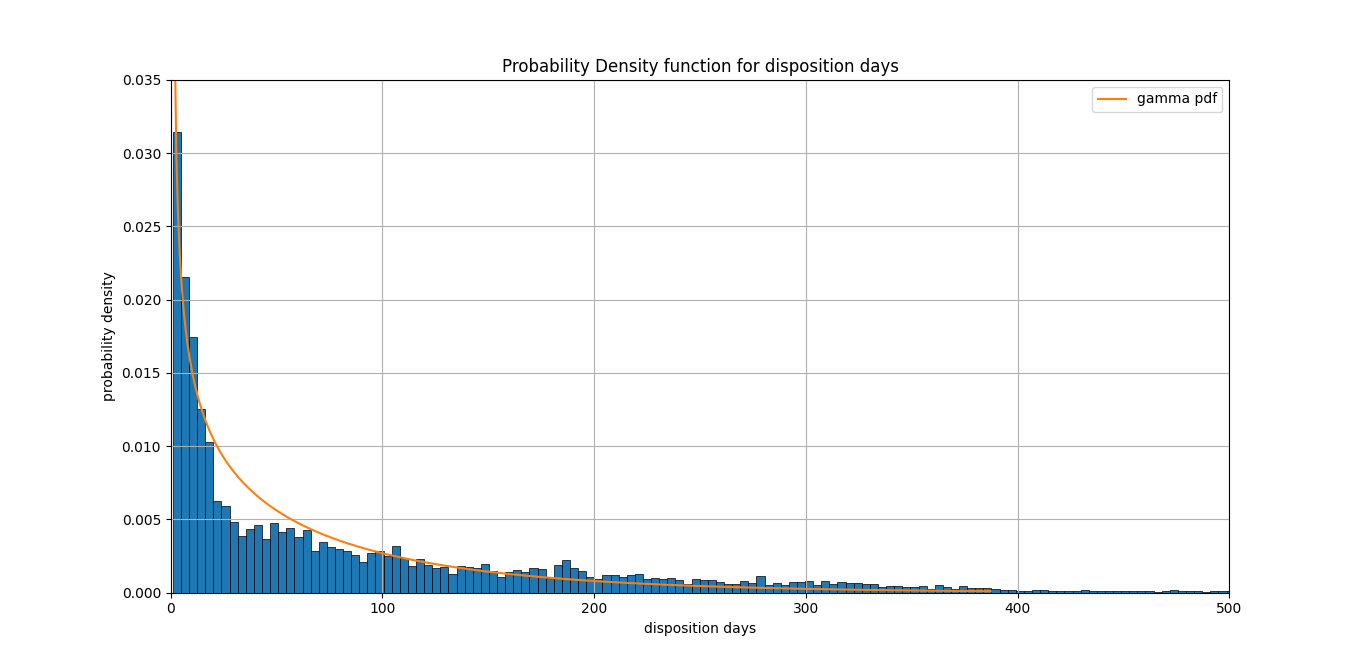
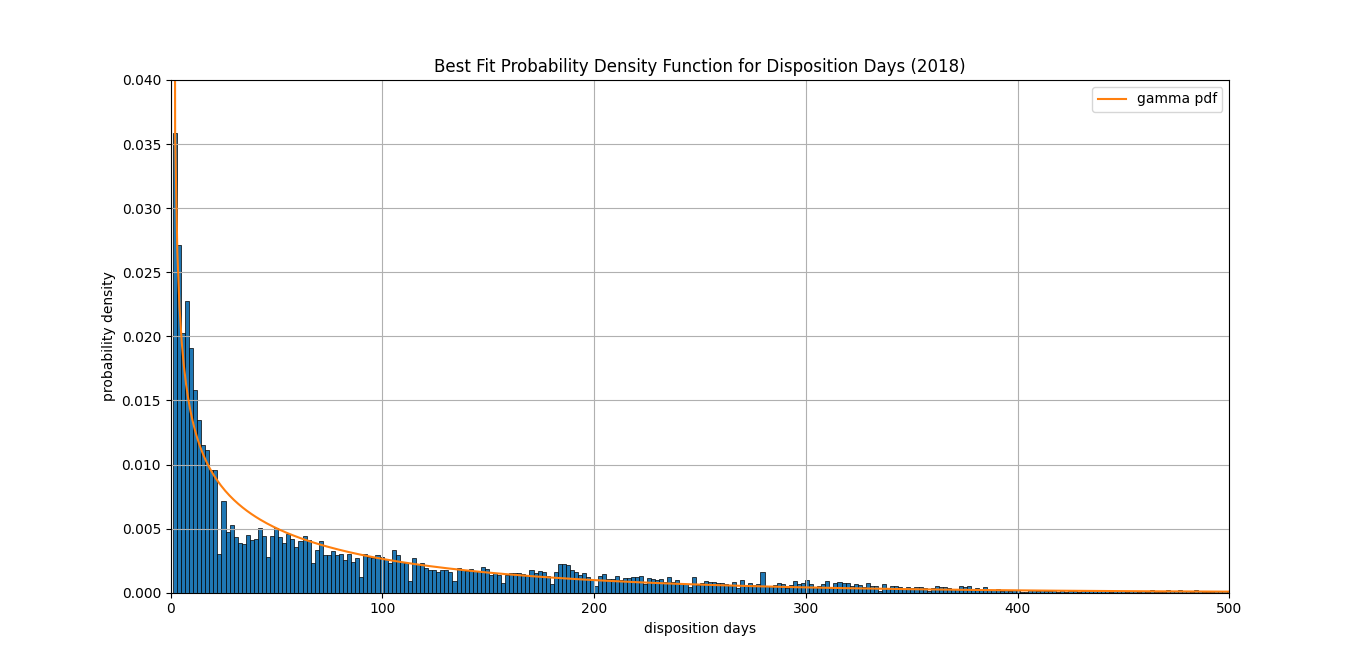
changed somethings in best-fit.py and gamma.py

Changed region(s): [[0.0922, 0.2102, 0.8917, 0.9009], [0.3075, 0.0901, 0.7072, 0.1201]]

diff --git a/data/pdf/gamma.py b/data/pdf/gamma.py
@@ -1,29 +1,36 @@
 import numpy as np
 from scipy.stats import gamma
+from scipy.stats import expon
+from scipy.stats import invgamma
 import matplotlib.pyplot as plt
 import pandas as pd
 
 fig, ax = plt.subplots()
 
-df = pd.read_csv("small_data.csv")
+filepath = "small_data.csv"
+df = pd.read_csv(filepath)
+print(f"loaded {filepath}")
 data = list(df["disposition_days"])
-ax.hist(data, bins=250, density=True, ec='black', lw=0.5)
 
-a = 0.6413976857345591
+ax.hist(data, bins=500, density=True, ec='black', lw=0.5)
+print("histogram prepared. Finding best fit curve now ...")
+
+a = 0.5731919169613173
 loc = 0.999999999999999999
-scale = 103.82470434943471
+scale = 145.42211799619184
 
 x = np.linspace(gamma.ppf(0.01, a, loc, scale), gamma.ppf(0.99, a, loc, scale), 500)
-print(x)
 ax.plot(x, gamma.pdf(x, a, loc, scale), label='gamma pdf')
+
+print("Best fit curve prepared")
 ax.legend()
 
 ax.set_xlim(0, 500)
-ax.set_ylim(0, 0.035)
+ax.set_ylim(0, 0.04)
 
 ax.set_xlabel("disposition days")
 ax.set_ylabel("probability density")
-ax.set_title("Probability Density function for disposition days")
+ax.set_title("Best Fit Probability Density Function for Disposition Days (2018)")
 ax.grid(True)
 
 plt.show()

diff --git a/data/pdf/best-fit.py b/data/pdf/best-fit.py
@@ -9,17 +9,19 @@ import seaborn as sns
 from fitter import Fitter, get_common_distributions, get_distributions
 
 dataset = pd.read_csv("small_data.csv")
+print("loaded data.csv")
 
 sns.set_style('white')
 sns.set_context('paper', font_scale=2)
 
-sns.displot(data=dataset, x="disposition_days", kind="hist", bins=1000, aspect=1.5)
+sns.displot(data=dataset, x="disposition_days", kind="hist", bins=250, aspect=1.5)
 
 disposition_days = dataset["disposition_days"].values
 
 good_distributations = ['betaprime', 'invgamma'] + get_common_distributions()
 
-f = Fitter(disposition_days, xmin=0, xmax=500, distributions=good_distributations)
+f = Fitter(disposition_days, timeout=120,
+           distributions=get_common_distributions())
 
 #['invgamma', 'betaprime', 'gamma', 'chi2']
 #['gamma', 'lognorm', 'beta', 'burr', 'norm']
@@ -28,4 +30,4 @@ f.fit()
 print(f.summary())
 print(f.get_best(method='sumsquare_error'))
 
-plt.show()
+plt.savefig("test.png")

diff --git a/README.md b/README.md
@@ -31,7 +31,7 @@
 #### Best Fit PDF
 - [Best Fit Probability Density Function For Disposition Days (2018)](https://imgur.com/a/33VYQc2) <br>
 Here, I have looked at all the solved cases of 2018 and plotted a histogram of
-the of difference between the decision date and the filing date. After that
+the difference between the decision date and the filing date. After that
 I found the best fit probability density function for that histogram.
 Using the best fit pdf, we can answer questions such as what is the
 approximate probability that a case will be solved between date `A` and 
